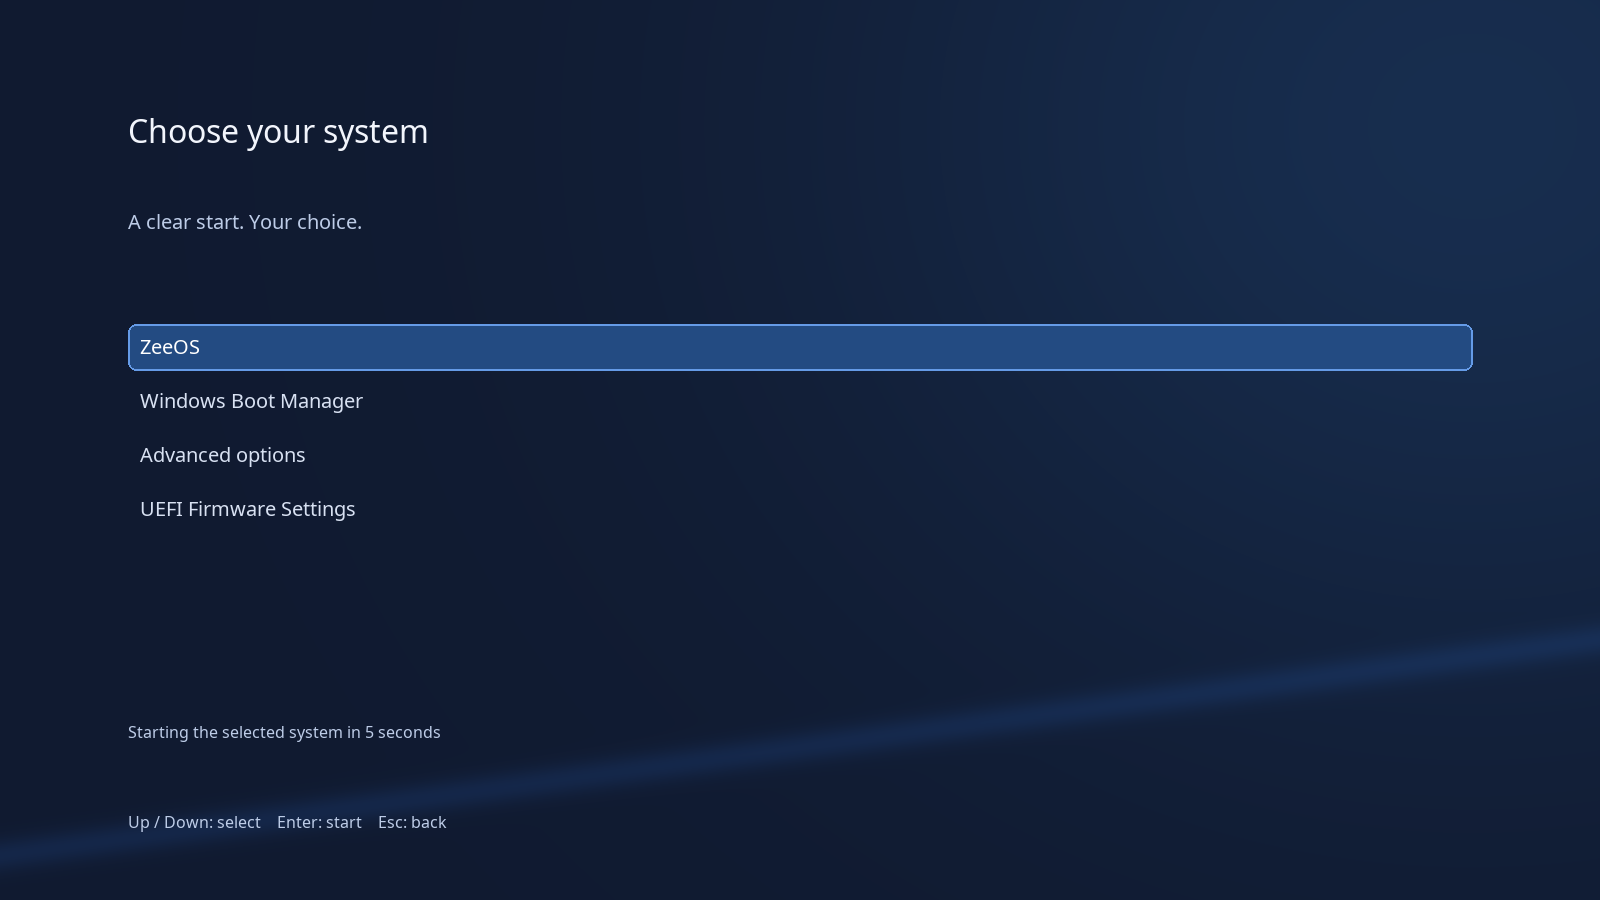
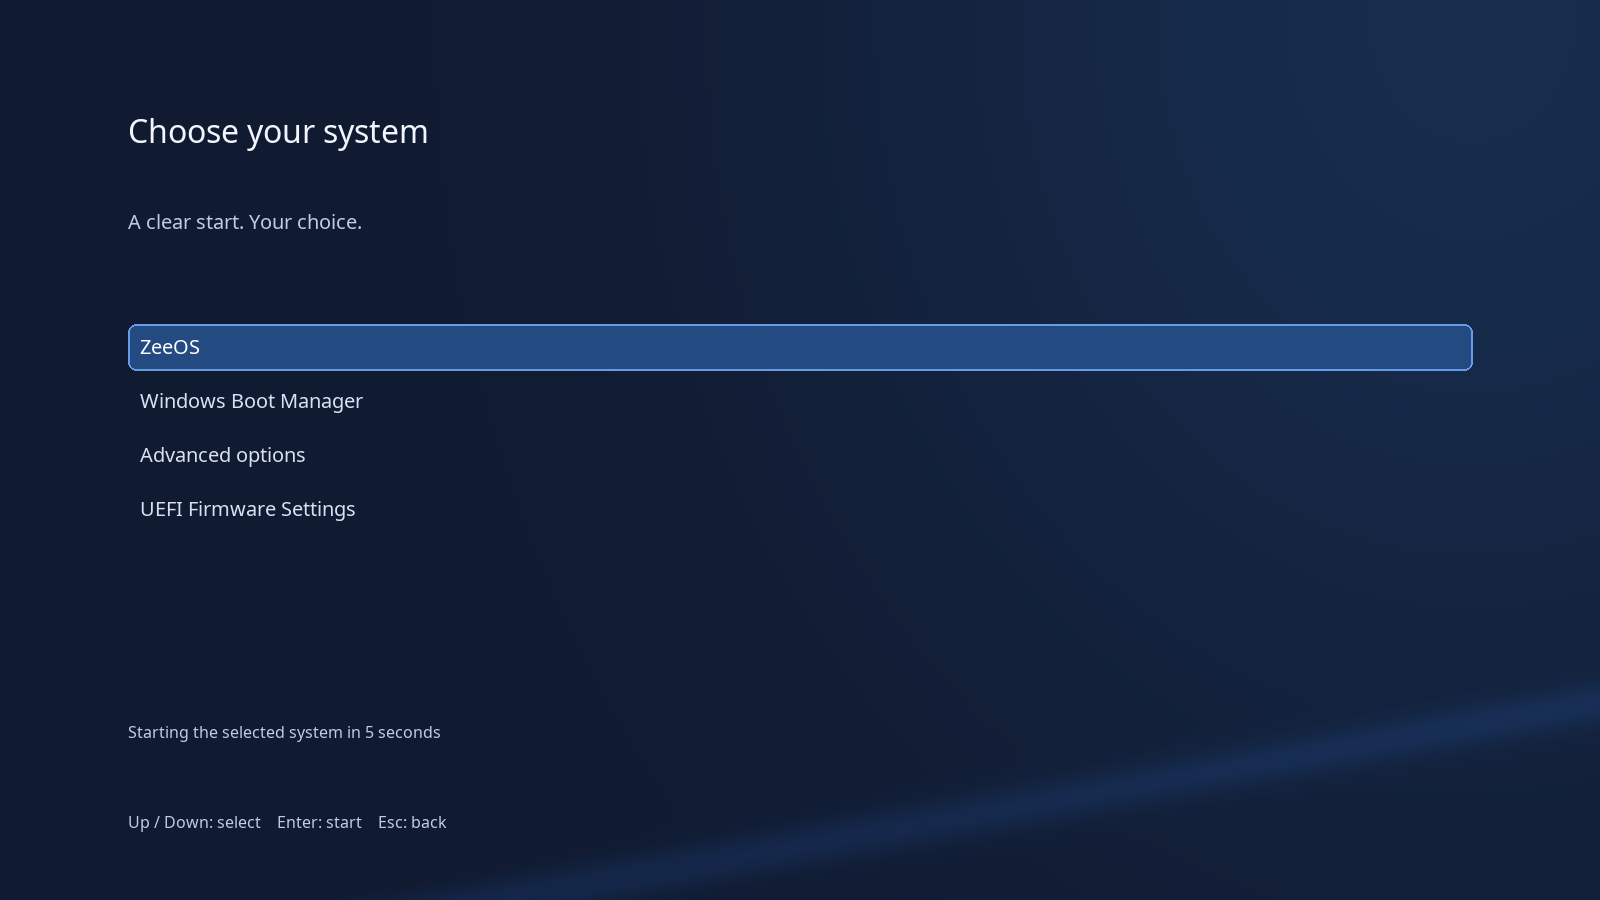
fix(branding): preserve GRUB background proportions on widescreen

diff --git a/branding/grub/src/render.py b/branding/grub/src/render.py
@@ -26,9 +26,25 @@ def background(width: int, height: int) -> Image.Image:
     return image
 
 
+def crop_background(source: Image.Image, width: int, height: int) -> Image.Image:
+    # Match GRUB's centered crop: trim the source to the destination aspect ratio,
+    # then scale proportionally. Integer divisions match bitmap_scale.c.
+    sw, sh = source.size
+    if sw * height < width * sh:
+        cropped_height = sw * height // width
+        top = (sh - cropped_height) // 2
+        source = source.crop((0, top, sw, top + cropped_height))
+    else:
+        cropped_width = sh * width // height
+        left = (sw - cropped_width) // 2
+        source = source.crop((left, 0, left + cropped_width, sh))
+    return source.resize((width, height), Image.Resampling.BILINEAR)
+
+
 def preview(width: int, height: int) -> None:
     # A design mockup, not a GRUB screenshot. Keep positions aligned with theme.txt.
-    image = background(width, height)
+    with Image.open(ROOT / "background.png") as source:
+        image = crop_background(source, width, height)
     draw = ImageDraw.Draw(image)
     def label(x: int, y: int, text: str, size: int, color: str) -> None:
         draw.text((x, y), text, font=ImageFont.truetype(str(FONT), size), fill=color)

diff --git a/branding/grub/README.md b/branding/grub/README.md
@@ -3,10 +3,18 @@
 Original dark background and selection tiles, with high-contrast text and a layout designed for 800×600
 and larger displays. No third-party icons or logo artwork. Noto Sans is redistributed under OFL-1.1;
 its upstream copyright and license are in `LICENSES/OFL-1.1.txt`. All text is ASCII so the generated
-font subset covers every theme label. Arabic boot labels need a wider font subset and separate RTL
-validation; this theme does not claim Arabic shaping support.
+font subset covers every theme label. Per the owner's #200 decision and ADR-0009, keep the ASCII
+PF2 subset. The installer-owned boot-menu work (#179) must keep generated entry titles and messages
+ASCII too; user-supplied non-ASCII labels are not covered by these fonts. No Arabic/RTL support is claimed.
 
 ![800×600 design mockup, illustrative entries](preview-800x600.png)
+
+![1600×900 design mockup, illustrative entries](preview-1600x900.png)
+
+The 1600×1200 background is center-cropped to the display's aspect ratio before proportional scaling.
+At 1600×900 this removes 150 pixels from each of the top and bottom edges; at 800×600 the entire source
+is scaled by one half. Text and menu layout stay anchored to screen percentages. Both previews use
+the actual `background.png` with the same crop geometry, rather than regenerating artwork at each size.
 
 The previews are **design mockups**, not screenshots from GRUB. Entries are illustrative: the theme
 only displays entries already supplied by `grub.cfg`. It never adds a Windows entry or changes the

diff --git a/.agent/state/200.md b/.agent/state/200.md
@@ -1,0 +1,8 @@
+# Handoff: #200 GRUB background scaling
+- Goal: remove widescreen distortion; follow owner's English/ASCII decision of 2026-10-24.
+- Changed: theme uses centered crop; preview renderer crops the actual background before scaling.
+- Font policy: ASCII retained; README hands ASCII generated-entry requirement to installer #179.
+- Scope: branding/grub/** and this handoff; unrelated shared-checkout wallpaper edits untouched.
+- Validated: both previews inspected; circular geometry preserved; exact 95-glyph ASCII indexes in all fonts.
+- Next: finish lint, push PR/CI and request Claude review; no issue closure without linked CI.
+- Pending: real signed-GRUB guest screenshots remain outside this mockup check; no guest pass claimed.
